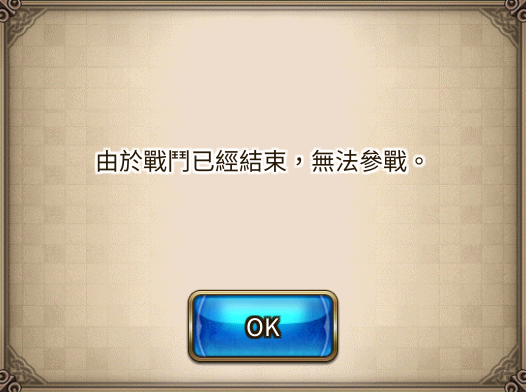
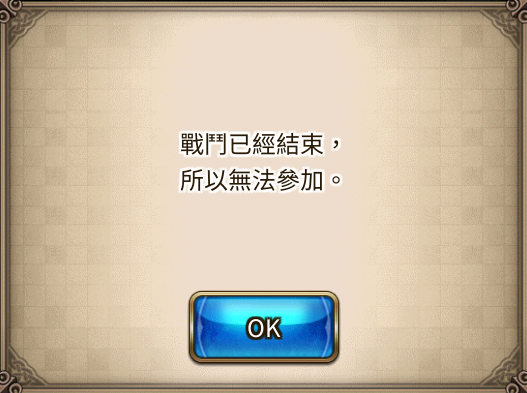
Fix: there are two battle join errors

diff --git a/valkyrie_connect_auto/dragon.py b/valkyrie_connect_auto/dragon.py
@@ -18,8 +18,9 @@ def start(args):
         sleep(0.5)
 
     @h.add("battle-join-error")
+    @h.add("battle-join-error-2")
     def _(m):
-        click(m, y=0.8)
+        click(m, y=7/8)
 
     for _i in range(args.loop):
         try:

diff --git a/valkyrie_connect_auto/auto.py b/valkyrie_connect_auto/auto.py
@@ -27,6 +27,7 @@ class PopupHandler:
     def add(self, name):
         def _(f):
             self.handlers[name] = f
+            return f
         return _
 
     def handle(self, r):
